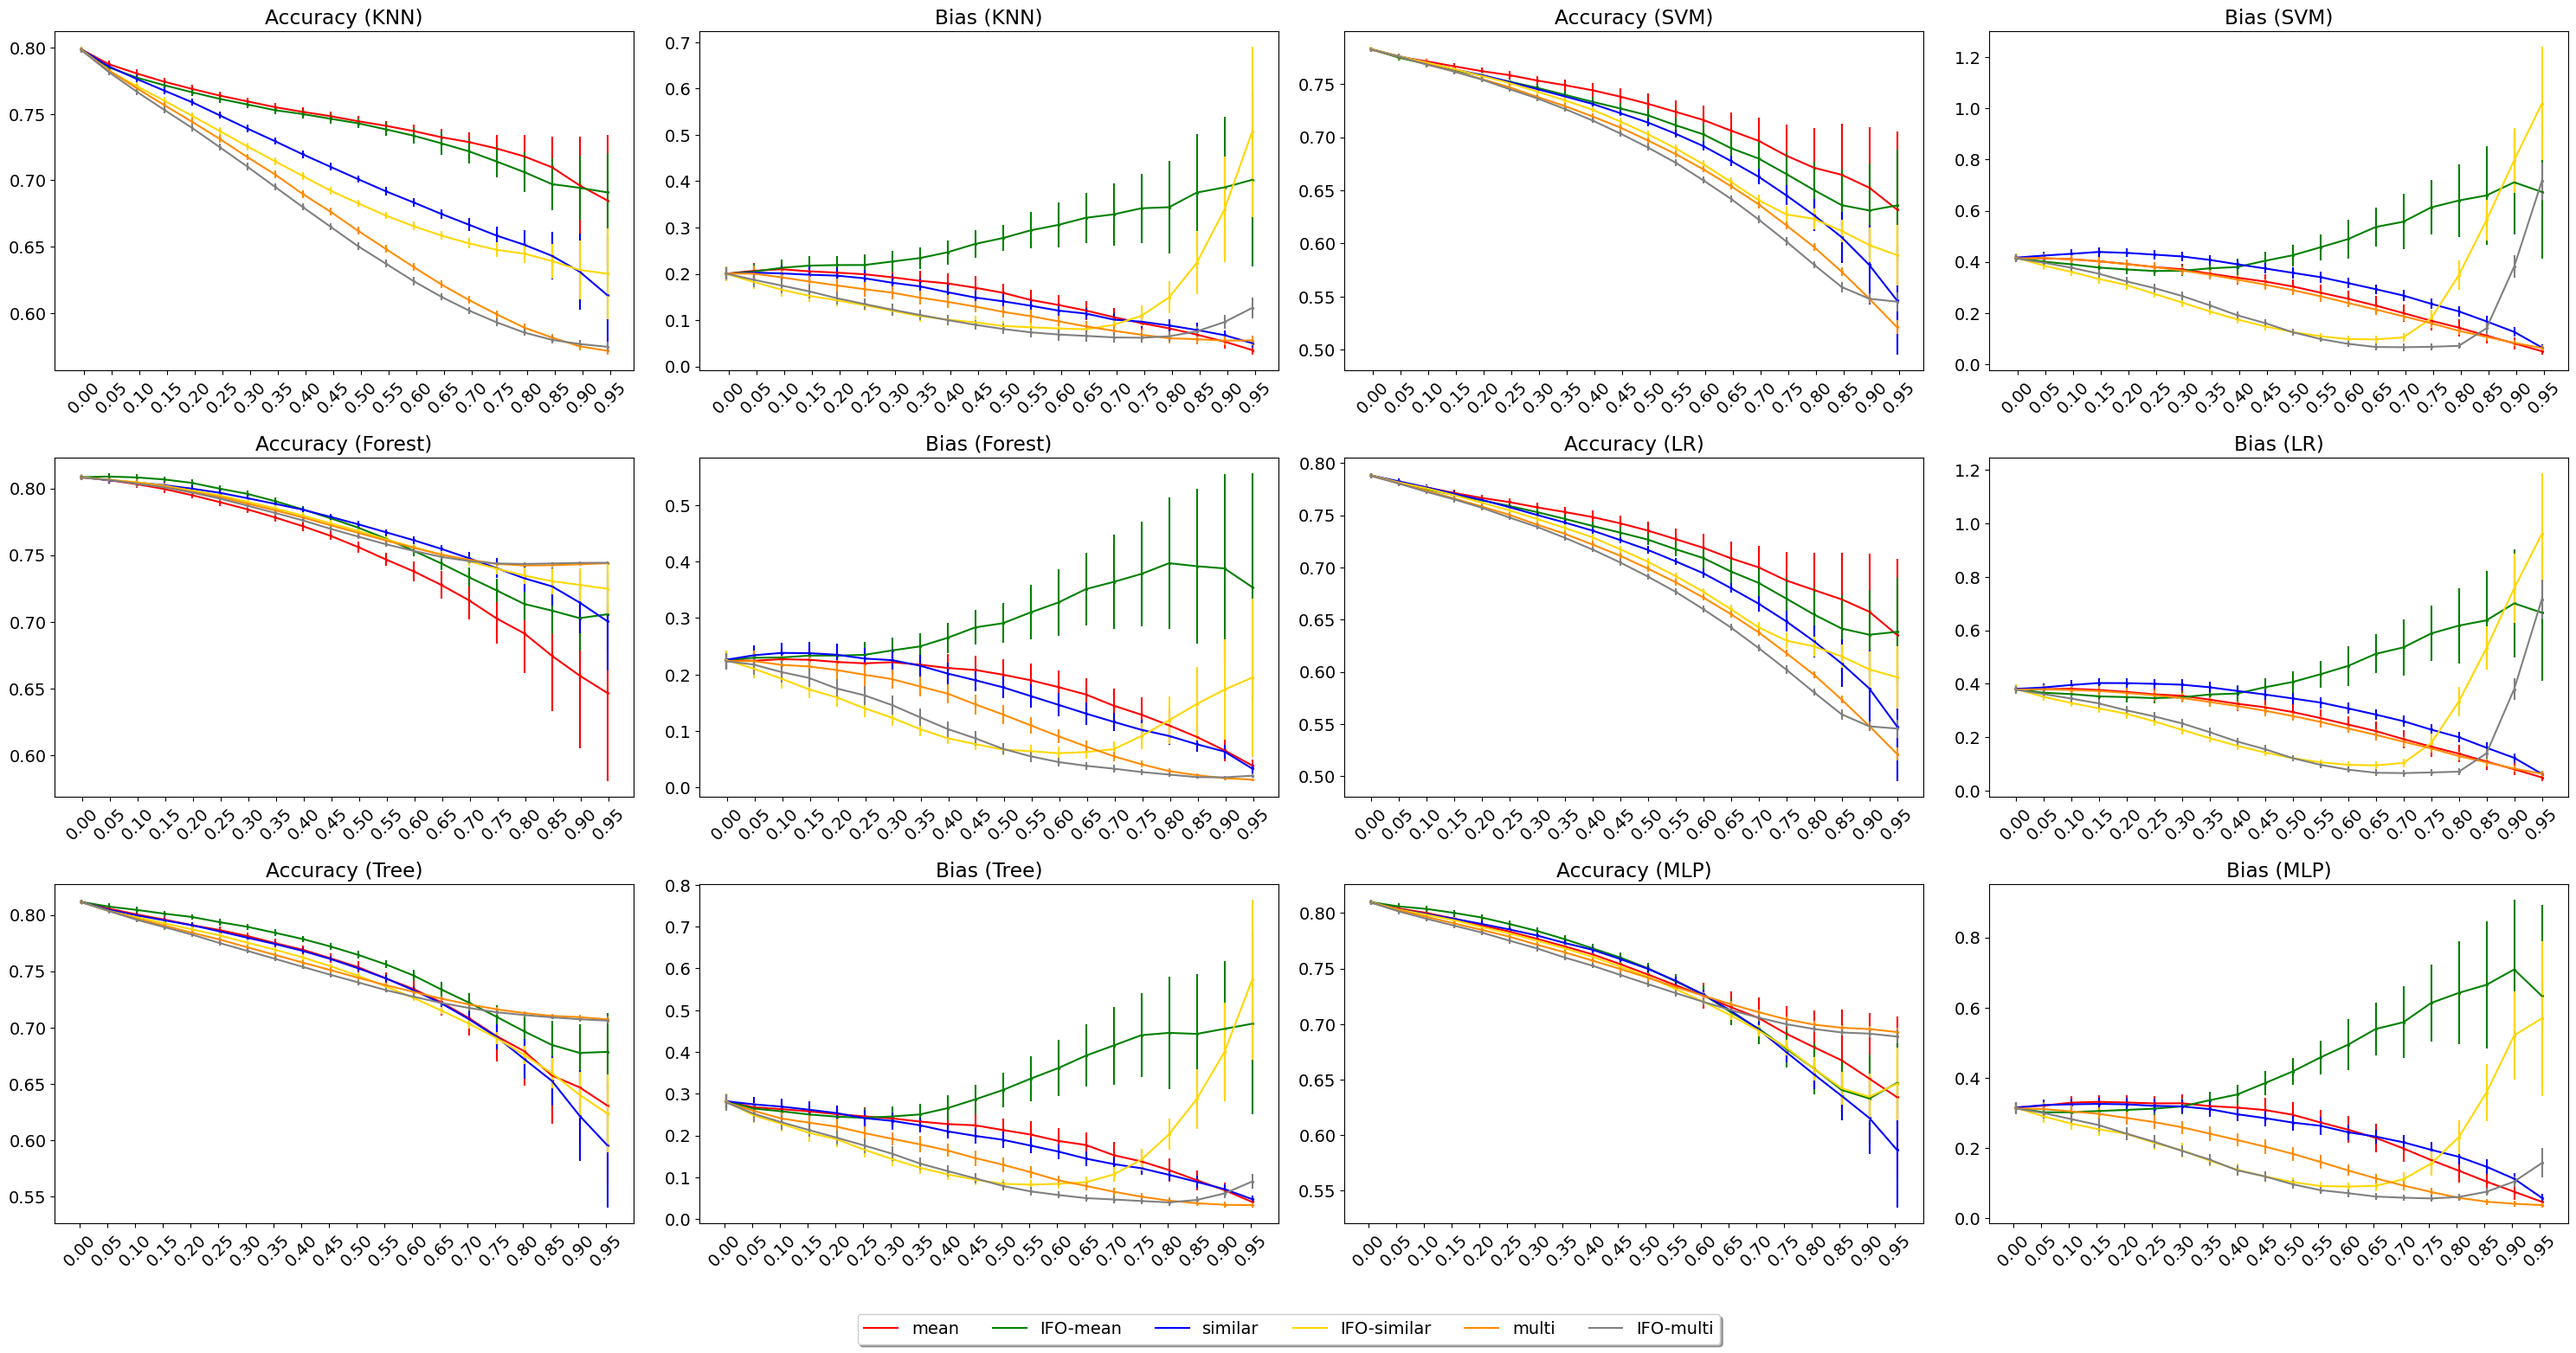
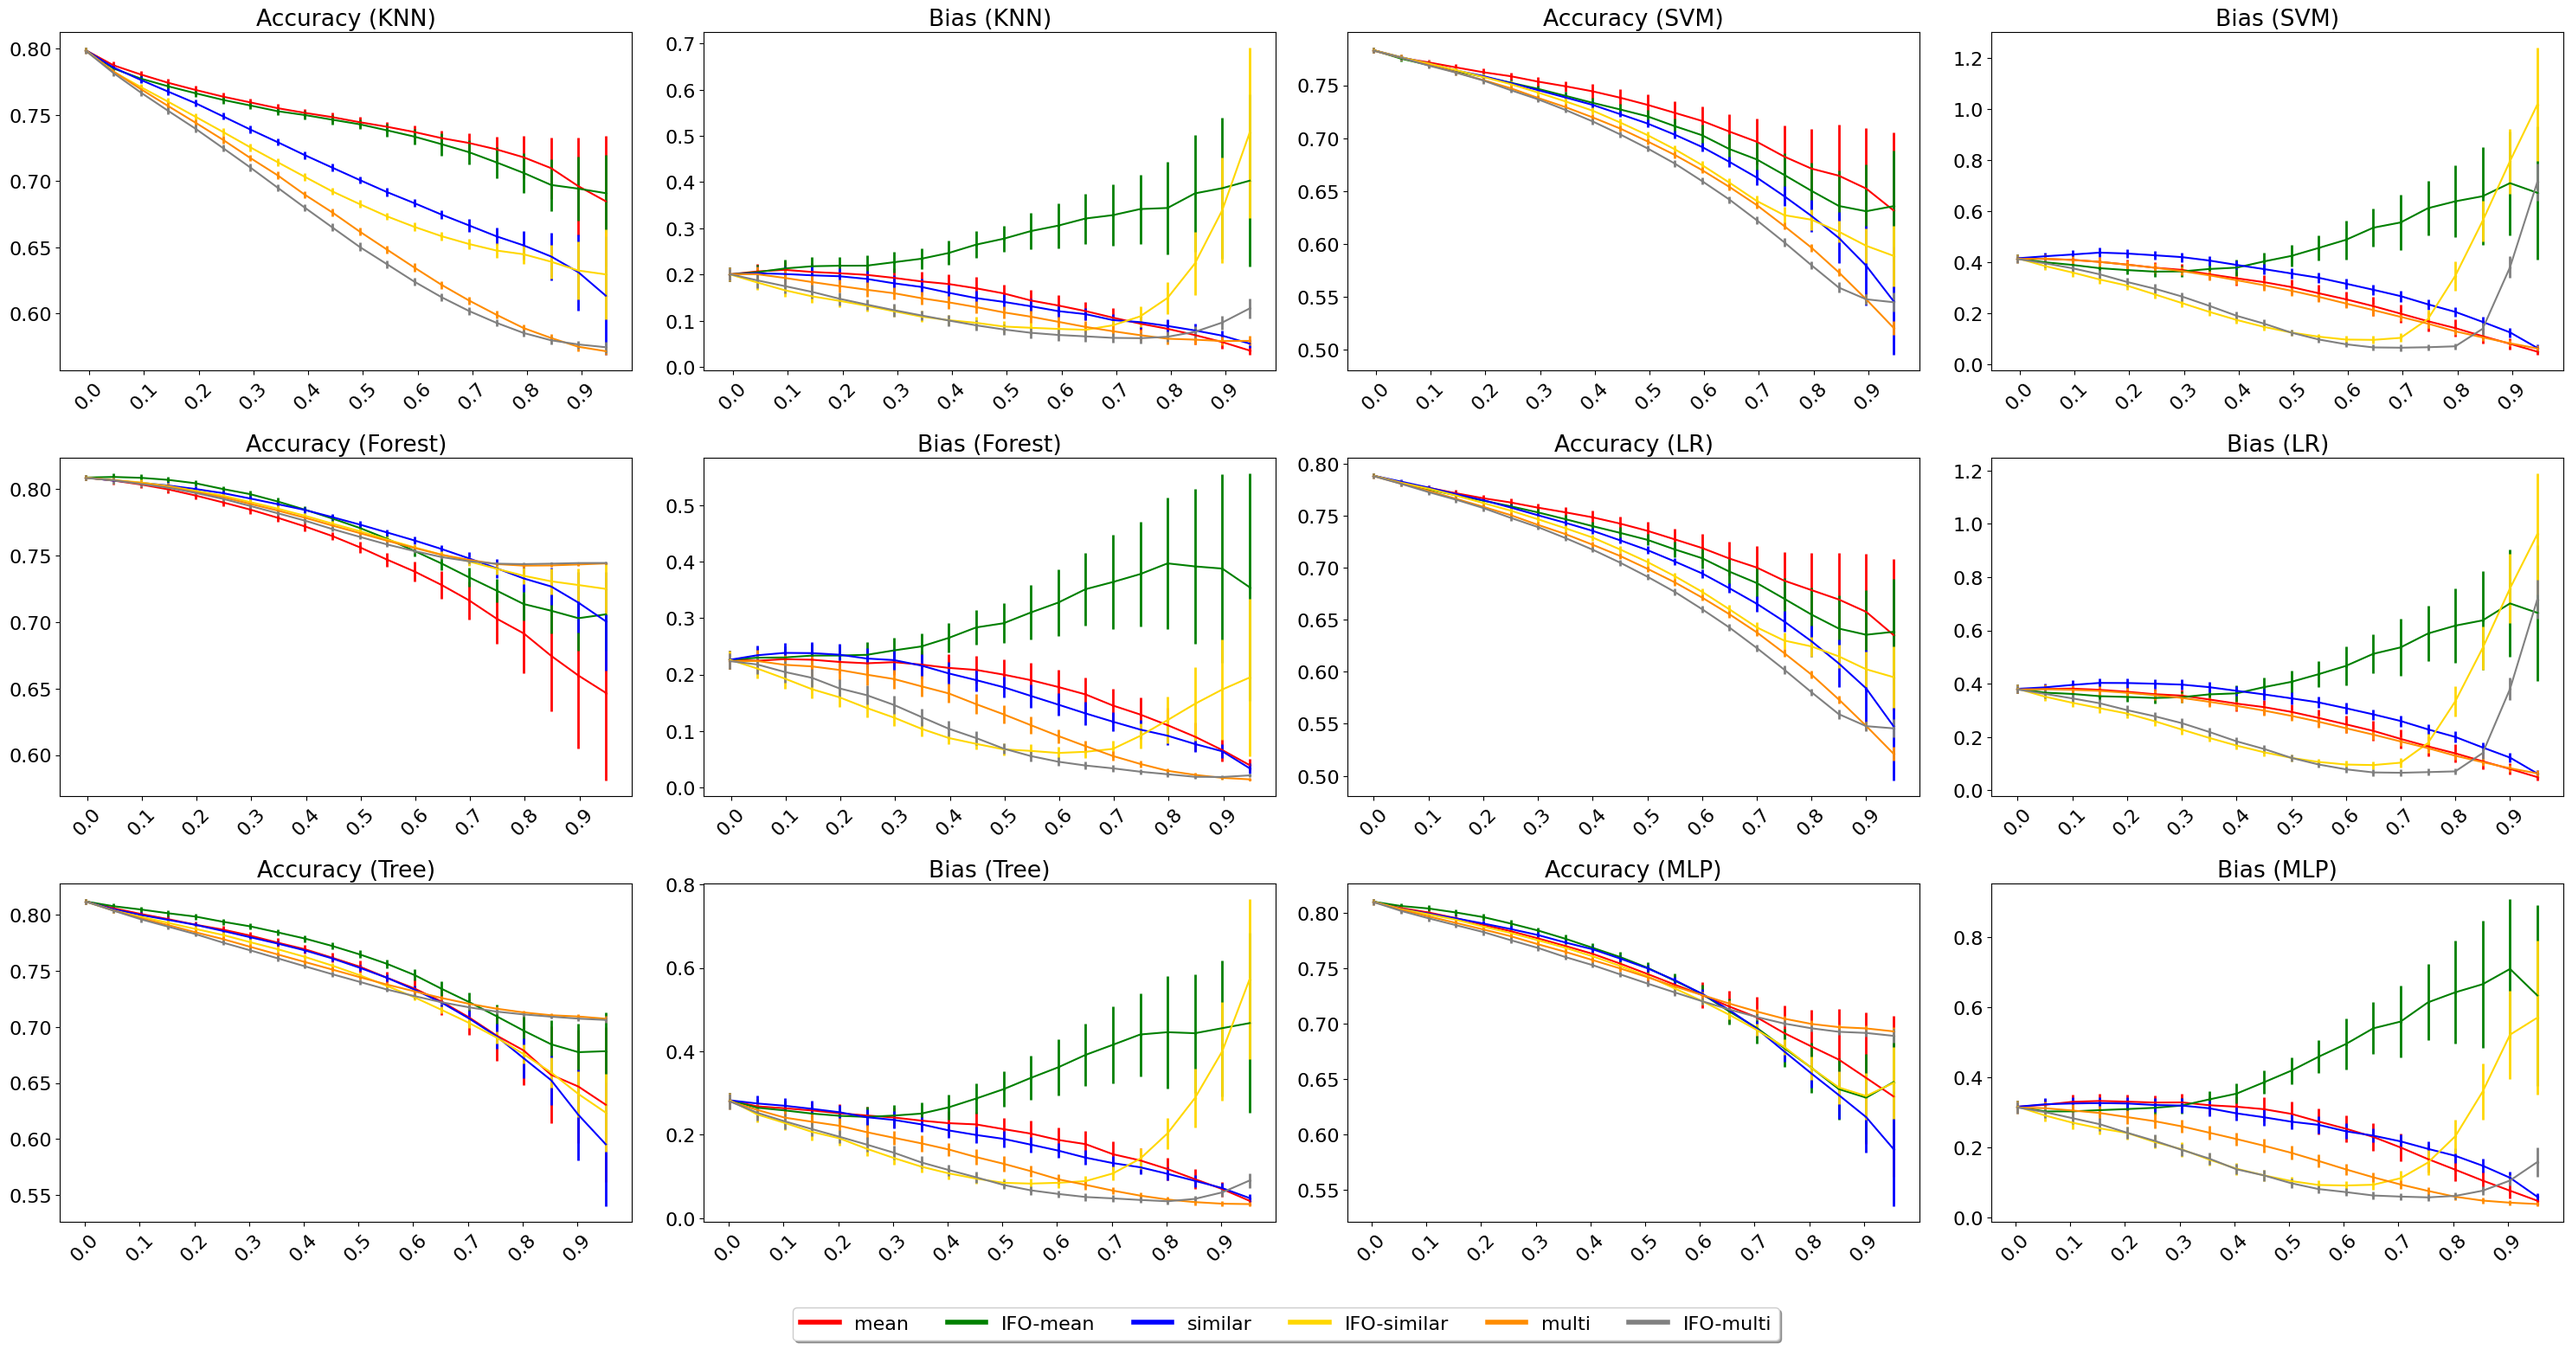
update font size and xticks

diff --git a/script_plot.py b/script_plot.py
@@ -969,18 +969,20 @@ def plot_MCAR_func(data_name, file_name=None):
         for j in range(len(methods)):
             axes[subID // 4][subID % 4].errorbar(random_ratios+(i-3)*plot_gap,
                 plot_data[classifiers_names[i]][0][methods_names[j]][0],
-                yerr=plot_data[classifiers_names[i]][0][methods_names[j]][1], c=plot_colors[j]
+                yerr=plot_data[classifiers_names[i]][0][methods_names[j]][1], c=plot_colors[j],
+                elinewidth=2.0
             )
             axes[subID // 4][subID % 4].scatter(random_ratios+(i-3)*plot_gap, plot_data[classifiers_names[i]][0][methods_names[j]][0], s=2, c=plot_colors[j])
             axes[subID // 4][subID % 4 + 1].errorbar(random_ratios+(i-3)*plot_gap,
                 plot_data[classifiers_names[i]][1][methods_names[j]][0],
-                yerr=plot_data[classifiers_names[i]][1][methods_names[j]][1], c=plot_colors[j]
+                yerr=plot_data[classifiers_names[i]][1][methods_names[j]][1], c=plot_colors[j],
+                elinewidth=2.0
             )
             axes[subID // 4][subID % 4 + 1].scatter(random_ratios+(i-3)*plot_gap, plot_data[classifiers_names[i]][1][methods_names[j]][0], s=2, c=plot_colors[j])
-        axes[subID // 4][subID % 4].set_xticks(np.arange(0.0, 1.0, 0.05))
-        axes[subID // 4][subID % 4 + 1].set_xticks(np.arange(0.0, 1.0, 0.05))
+        axes[subID // 4][subID % 4].set_xticks(np.arange(0.0, 1.0, 0.1))
+        axes[subID // 4][subID % 4 + 1].set_xticks(np.arange(0.0, 1.0, 0.1))
         subID += 2
-    custom_legend = [Line2D([0], [0], linestyle="-", color=x, label=y, markersize=16) for x,y in zip(plot_colors, methods_names)]
+    custom_legend = [Line2D([0], [0], linestyle="-", color=x, label=y, linewidth=4.0) for x,y in zip(plot_colors, methods_names)]
     fig.legend(handles=custom_legend, bbox_to_anchor=(0.5, -0.05), loc="lower center", ncol=6, fancybox=True, shadow=True)
     fig.tight_layout()
     if file_name:
@@ -1221,7 +1223,7 @@ def plot_all(data_folder, plot_folder, name):
             # plot_func_pareto_front(data, "Pareto Front ({})".format(name), os.path.join(plot_folder, "pareto_front_realacc_scaled.png"), y_scale="log", x_axis="realacc")
 
 if __name__=="__main__":
-    plt.rcParams.update({'font.size': 14})
+    plt.rcParams.update({'font.size': 16})
 
     if not os.path.exists("ratio_analysis_plots"):
         os.makedirs("ratio_analysis_plots")
